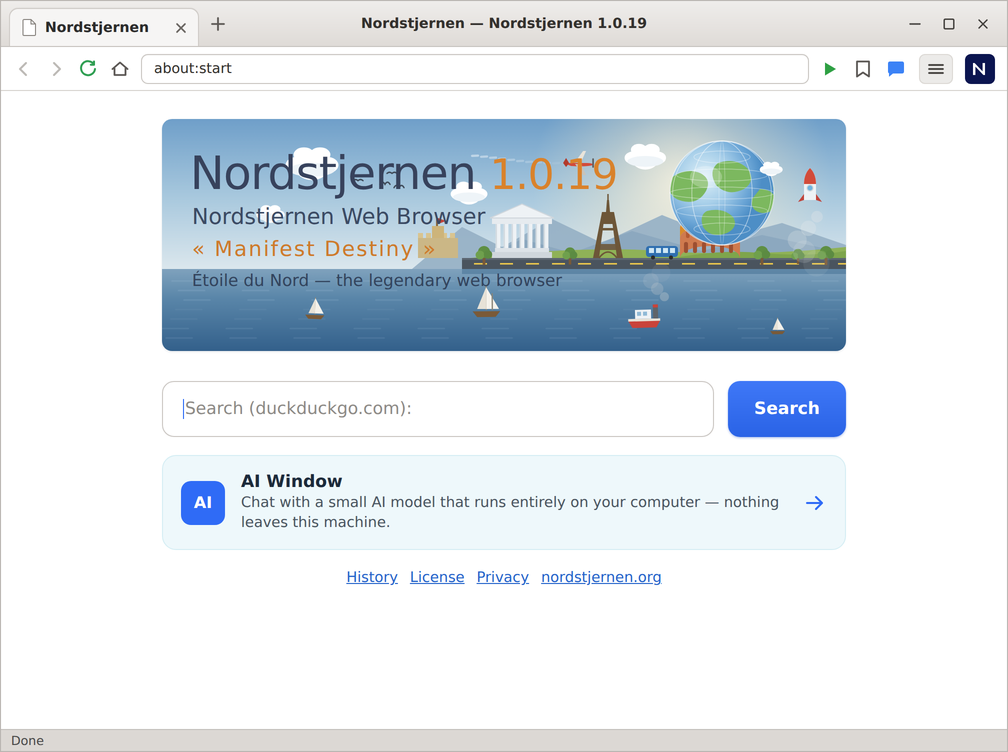
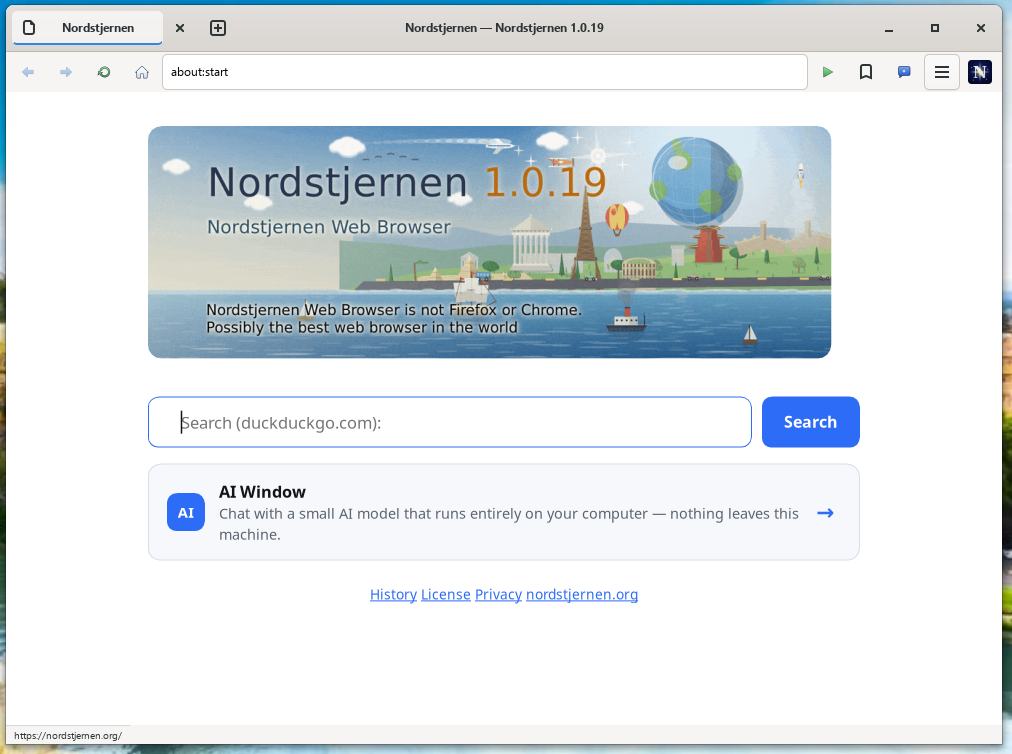
Update site for Nordstjernen 1.0.19 release
- Bump version 1.0.18 -> 1.0.19 in index.html and download.html
  (JSON-LD softwareVersion/downloadUrl, release banner, download
  section, release dates)
- Add release-1-0-19.html announcing the release, based on the
  1.0.18 page: Web Platform Tests conformance (88.4% overall,
  91.7% HTML), a new animated about:start splash, a fresh iOS port,
  Chrome-identity site compatibility, and grayscale text rendering
- Replace screenshots/screenshot.png with the 1.0.19 about:start
  panorama (1012x754) from the app repo's docs/screenshot.png
- Refresh screenshot dimensions and captions in index.html and
  screenshots.html (retire the old "Manifest Destiny" splash name)
- Add a 1.0.19 news entry and a WPT conformance highlight to index.html

Claude-Session: https://claude.ai/code/session_019Tk9YRZpjw4Xjymx6icwFh

Changed region(s): [[0.123, 0.1529, 0.8611, 0.734], [0.0, 0.0, 1.0, 1.0], [0.3383, 0.7646, 0.6458, 0.8258]]

diff --git a/release-1-0-19.html b/release-1-0-19.html
@@ -1,0 +1,286 @@
+<!DOCTYPE html>
+<html lang="en">
+<head>
+<meta charset="utf-8">
+<meta name="viewport" content="width=device-width, initial-scale=1">
+<title>Nordstjernen Browser 1.0.19 released!</title>
+<meta name="description" content="Nordstjernen Browser 1.0.19 released - major web-standards conformance gains, a new animated about:start splash, and a fresh iOS port. An independent web browser written from scratch in C. No telemetry, no JIT.">
+<link rel="icon" type="image/svg+xml" href="assets/nordstjernen.svg">
+<link rel="stylesheet" href="assets/style.css">
+</head>
+<body>
+
+<div class="frame">
+
+  <div class="header">
+    <a class="bestviewed" href="https://github.com/nordstjernen-web/nordstjernen">
+      <img src="assets/best-viewed-in-nordstjernen.png" width="144" height="50" alt="Best viewed in Nordstjernen">
+    </a>
+    <div class="brand">
+      <a href="."><img class="logo" src="assets/nordstjernen.svg" alt="*"></a>
+      <span class="title"><a href=".">nordstjernen.org</a></span>
+    </div>
+    <div class="tag">small, steady, independent &middot; written from scratch in C &middot; no JIT, no telemetry</div>
+  </div>
+
+  <nav class="nav" aria-label="Primary">
+    <a href="index.html#about">About</a>
+    <a href="index.html#news">News</a>
+    <a href="screenshots.html">Screenshots</a>
+    <a href="download.html">Download</a>
+    <a href="https://github.com/nordstjernen-web/nordstjernen">GitHub</a>
+    <input type="checkbox" id="nav-more" class="nav-more-toggle">
+    <label class="nav-more-btn" for="nav-more">More <span aria-hidden="true">&#9662;</span></label>
+    <div class="nav-sec">
+      <a href="index.html#specs">Specifications</a>
+      <a href="https://github.com/nordstjernen-web/nordstjernen/releases">Releases</a>
+      <a href="https://discord.gg/4W959nW5vF">Discord</a>
+    </div>
+  </nav>
+
+  <div class="content">
+
+        <a id="about"></a>
+        <h1>Nordstjernen Browser 1.0.19 released!</h1>
+        <p>Today, 17 July 2026, we are pleased to announce the release of <b>Nordstjernen 1.0.19</b>. This is a big one: a major push on web-standards conformance, a redesigned animated <code>about:start</code> splash, a fresh iOS port, and compatibility work that gets real-world sites much closer to loading. Nordstjernen is a web browser, written from scratch in C, focused on supporting the HTML and CSS standards. It runs on Windows, macOS and Linux, with builds for Android, iOS, FreeBSD, NetBSD and the JVM. Nordstjernen is built in Norway.</p>
+
+        <p>Nordstjernen Browser version 1.0.19 is available now! <a href="https://github.com/nordstjernen-web/nordstjernen/releases/tag/1.0.19">Read the full release notes here</a>, or <a href="#download">jump straight to the downloads</a>.</p>
+
+        <p>&laquo; <a href="index.html">Back to nordstjernen.org</a></p>
+
+        <div class="shot">
+          <a href="screenshots/screenshot.png"><img src="screenshots/screenshot.png" width="1012" height="754" alt="Nordstjernen's about:start start page — an animated civilization panorama, with on-device search and a local AI window"></a>
+          <div class="cap">Nordstjernen&rsquo;s new <code>about:start</code> page &mdash; the animated splash panorama. <a href="screenshots.html">more screenshots &raquo;</a></div>
+        </div>
+
+        <h2>what&rsquo;s new in 1.0.19</h2>
+        <ul class="news">
+          <li><b>A big step in web-standards conformance.</b> Nordstjernen now runs the full <a href="https://github.com/web-platform-tests/wpt">Web Platform Tests</a> (wpt-fast) tree headless &mdash; <b>88.4% of subtests pass overall</b> (169,973 of 192,222), with the HTML suite at 91.7%, CSS at 63.4% and JavaScript at 59.5%. Hundreds of layout, CSS, DOM, events and HTML-reflection fixes landed this cycle, and QuickJS now runs the test262 ECMAScript conformance suite with an empty known-failure list.</li>
+          <li><b>Getting real sites to load.</b> Nordstjernen now presents a coherent modern Chrome desktop identity &mdash; a matching User-Agent, <code>Sec-CH-UA</code> client hints, <code>navigator.plugins</code>/<code>mimeTypes</code>, <code>window.chrome</code> and Chrome/ANGLE WebGL renderer strings &mdash; so sites that sniff the browser serve it the right code. A new <code>compat_mode</code> setting switches between Chrome, Firefox and Ladybird identities. List of websites almost working, but not quite: Google, Bing, YouTube, duck.ai, CNN, BBC.</li>
+          <li><b>A new <code>about:start</code>.</b> The start-page splash is redesigned as an animated &ldquo;civilization panorama&rdquo; &mdash; a Greco-Roman skyline of world monuments under drifting clouds over a calm sea &mdash; replacing the old codename splash. The on-device search box and local-AI window carry over unchanged.</li>
+          <li><b>A fresh iOS port.</b> A new UIKit host app and iOS engine cross-compile now build end-to-end in CI (device and simulator), joining Windows, macOS, Linux, Android, the JVM, FreeBSD and NetBSD.</li>
+          <li><b>Sharper text.</b> Text now renders with grayscale antialiasing instead of LCD subpixel, for cleaner glyphs across displays.</li>
+          <li><b>Shadow DOM and more.</b> <code>getHTML()</code>, <code>setHTMLUnsafe()</code> and declarative shadow roots; real cross-frame and cross-thread <code>postMessage</code>; CSS transforms reflected in <code>getBoundingClientRect()</code> and hit-testing; real box-shadow blur; CSS-table cells and grid placement fixes; and much more.</li>
+        </ul>
+
+        <p><b>HTML Standard.</b> Behaviour is measured against the spec text, section by section, not against another browser &mdash; 140 spec rows fully implemented, 31 partial, 0 absent across WHATWG HTML sections 1&ndash;16 as of July 2026. See the standards table below and <a href="https://github.com/nordstjernen-web/nordstjernen/blob/main/docs/HTML-compatibility.md">docs/HTML-compatibility.md</a>.</p>
+        <p><b>Secure.</b> Process-per-tab design &mdash; each tab's engine runs in its own sandboxed process (seccomp + Landlock on Linux), talking to the UI over IPC and shared-memory framebuffers &middot; no JIT.</p>
+        <p><b>Minimalism.</b> The whole engine is about 145,000 lines of clean-room C (plus a thin GTK 4 shell), excluding the vendored libraries &mdash; small enough for one person to read and audit end-to-end.</p>
+        <p><b>Local AI.</b> The <code>about:start</code> new-tab page is a chat with a small language model running entirely on your machine via <a href="https://github.com/ggml-org/llama.cpp">llama.cpp</a> &mdash; no cloud, no network at inference time. Build with <code>-Dai=disabled</code> for a fully offline binary.</p>
+        <p>Nordstjernen has no JIT so it is much more secure, and can still be fast enough. It ships no telemetry of any kind.</p>
+
+        <a id="news"></a>
+        <h2>news</h2>
+        <p><span class="date">17&nbsp;JUL&nbsp;2026</span> &middot;
+        Nordstjernen <b>1.0.19</b> released &mdash; web-standards conformance, a new animated splash, and an iOS port.
+        <a href="https://github.com/nordstjernen-web/nordstjernen/releases/tag/1.0.19">Release notes &raquo;</a></p>
+
+        <p><span class="date">6&nbsp;JUL&nbsp;2026</span> &middot;
+        Nordstjernen <b>1.0.18</b> released &mdash; a maintenance release.
+        <a href="release-1-0-18.html">Announcement &raquo;</a> &middot;
+        <a href="https://github.com/nordstjernen-web/nordstjernen/releases/tag/1.0.18">Release notes &raquo;</a></p>
+
+        <p><span class="date">30&nbsp;JUN&nbsp;2026</span> &middot;
+        Nordstjernen <b>1.0.17</b> released &mdash; a maintenance release.
+        <a href="release-1-0-17.html">Announcement &raquo;</a> &middot;
+        <a href="https://github.com/nordstjernen-web/nordstjernen/releases/tag/1.0.17">Release notes &raquo;</a></p>
+
+        <p><span class="date">27&nbsp;JUN&nbsp;2026</span> &middot;
+        Nordstjernen <b>1.0.16</b> released &mdash; a maintenance release.
+        <a href="release-1-0-16.html">Announcement &raquo;</a> &middot;
+        <a href="https://github.com/nordstjernen-web/nordstjernen/releases/tag/1.0.16">Release notes &raquo;</a></p>
+
+        <p><span class="date">25&nbsp;JUN&nbsp;2026</span> &middot;
+        Nordstjernen <b>1.0.15</b> released &mdash; a maintenance release.
+        <a href="release-1-0-15.html">Announcement &raquo;</a> &middot;
+        <a href="https://github.com/nordstjernen-web/nordstjernen/releases/tag/1.0.15">Release notes &raquo;</a></p>
+
+        <p><span class="date">23&nbsp;JUN&nbsp;2026</span> &middot;
+        Nordstjernen <b>1.0.14</b> released &mdash; a maintenance release.
+        <a href="release-1-0-14.html">Announcement &raquo;</a> &middot;
+        <a href="https://github.com/nordstjernen-web/nordstjernen/releases/tag/1.0.14">Release notes &raquo;</a></p>
+
+        <p><span class="date">21&nbsp;JUN&nbsp;2026</span> &middot;
+        Nordstjernen <b>1.0.12</b> released &mdash; a maintenance release.
+        <a href="https://github.com/nordstjernen-web/nordstjernen/releases/tag/1.0.12">Release notes &raquo;</a></p>
+
+        <p><span class="date">19&nbsp;JUN&nbsp;2026</span> &middot;
+        Nordstjernen <b>1.0.11</b> released &mdash; a maintenance release.
+        <a href="release-1-0-11.html">Announcement &raquo;</a> &middot;
+        <a href="https://github.com/nordstjernen-web/nordstjernen/releases/tag/1.0.11">Release notes &raquo;</a></p>
+
+        <p><span class="date">18&nbsp;JUN&nbsp;2026</span> &middot;
+        Nordstjernen <b>1.0.10</b> released &mdash; a maintenance release.
+        <a href="release-1-0-10.html">Announcement &raquo;</a> &middot;
+        <a href="https://github.com/nordstjernen-web/nordstjernen/releases/tag/1.0.10">Release notes &raquo;</a></p>
+
+        <p><span class="date">17&nbsp;JUN&nbsp;2026</span> &middot;
+        Nordstjernen <b>1.0.9</b> released &mdash; a maintenance release.
+        <a href="release-1-0-9.html">Announcement &raquo;</a> &middot;
+        <a href="https://github.com/nordstjernen-web/nordstjernen/releases/tag/1.0.9">Release notes &raquo;</a></p>
+
+        <p><span class="date">15&nbsp;JUN&nbsp;2026</span> &middot;
+        Nordstjernen <b>1.0.8</b> released &mdash; a maintenance release.
+        <a href="release-1-0-8.html">Announcement &raquo;</a> &middot;
+        <a href="https://github.com/nordstjernen-web/nordstjernen/releases/tag/1.0.8">Release notes &raquo;</a></p>
+
+        <p><span class="date">14&nbsp;JUN&nbsp;2026</span> &middot;
+        Nordstjernen <b>1.0.7</b> released &mdash; a maintenance release.
+        <a href="release-1-0-7.html">Announcement &raquo;</a> &middot;
+        <a href="https://github.com/nordstjernen-web/nordstjernen/releases/tag/1.0.7">Release notes &raquo;</a></p>
+
+        <p><span class="date">14&nbsp;JUN&nbsp;2026</span> &middot;
+        Nordstjernen <b>1.0.6</b> released &mdash; a maintenance release.
+        <a href="release-1-0-6.html">Announcement &raquo;</a> &middot;
+        <a href="https://github.com/nordstjernen-web/nordstjernen/releases/tag/1.0.6">Release notes &raquo;</a></p>
+
+        <p><span class="date">13&nbsp;JUN&nbsp;2026</span> &middot;
+        Nordstjernen <b>1.0.5</b> released &mdash; a maintenance release.
+        <a href="release-1-0-5.html">Announcement &raquo;</a> &middot;
+        <a href="https://github.com/nordstjernen-web/nordstjernen/releases/tag/1.0.5">Release notes &raquo;</a></p>
+
+        <p><span class="date">13&nbsp;JUN&nbsp;2026</span> &middot;
+        Nordstjernen <b>1.0.4</b> released &mdash; a maintenance release.
+        <a href="release-1-0-4.html">Announcement &raquo;</a> &middot;
+        <a href="https://github.com/nordstjernen-web/nordstjernen/releases/tag/1.0.4">Release notes &raquo;</a></p>
+
+        <p><span class="date">10&nbsp;JUN&nbsp;2026</span> &middot;
+        Nordstjernen <b>1.0.3</b> released &mdash; faster page loads and a UI translated into 40 languages.
+        <a href="release-1-0-3.html">Announcement &raquo;</a> &middot;
+        <a href="https://github.com/nordstjernen-web/nordstjernen/releases/tag/1.0.3">Release notes &raquo;</a></p>
+
+        <p><span class="date">9&nbsp;JUN&nbsp;2026</span> &middot;
+        Nordstjernen <b>1.0.2</b> released &mdash; a maintenance release.
+        <a href="release-1-0-2.html">Announcement &raquo;</a> &middot;
+        <a href="https://github.com/nordstjernen-web/nordstjernen/releases/tag/1.0.2">Release notes &raquo;</a></p>
+
+        <p><span class="date">7&nbsp;JUN&nbsp;2026</span> &middot;
+        Nordstjernen <b>1.0.1</b> released &mdash; a maintenance release.
+        <a href="release-1-0-1.html">Announcement &raquo;</a> &middot;
+        <a href="https://github.com/nordstjernen-web/nordstjernen/releases/tag/1.0.1">Release notes &raquo;</a></p>
+
+        <p><span class="date">5&nbsp;JUN&nbsp;2026</span> &middot;
+        Nordstjernen <b>1.0.0</b> released &mdash; the first stable release.
+        <a href="release-1-0-0.html">Announcement &raquo;</a> &middot;
+        <a href="https://github.com/nordstjernen-web/nordstjernen/releases/tag/1.0.0">Release notes &raquo;</a></p>
+
+        <p><span class="date">31&nbsp;MAY&nbsp;2026</span> &middot;
+        Nordstjernen <b>0.8.1</b> released.
+        <a href="https://github.com/nordstjernen-web/nordstjernen/releases/tag/0.8.1">Release notes &raquo;</a></p>
+
+        <p><span class="date">28&nbsp;MAY&nbsp;2026</span> &middot;
+        Nordstjernen <b>0.8.0</b> released.
+        <a href="https://github.com/nordstjernen-web/nordstjernen/releases/tag/0.8.0">Release notes &raquo;</a></p>
+
+        <p><span class="date">24&nbsp;MAY&nbsp;2026</span> &middot;
+        Nordstjernen <b>0.7.0</b> released.
+        <a href="https://github.com/nordstjernen-web/nordstjernen/releases/tag/0.7.0">Release notes &raquo;</a></p>
+
+        <a id="specs"></a>
+        <h2>specifications</h2>
+        <table class="spec">
+          <tr><th>language</th><td>C &middot; ~145 kLOC clean-room &middot; GTK&nbsp;4 shell &middot; Java/JVM binding via JNI &middot; fully auditable</td></tr>
+          <tr><th>html / css</th><td><a href="https://github.com/lexbor/lexbor">lexbor</a> (parser, WHATWG URL, selectors)</td></tr>
+          <tr><th>javascript</th><td><a href="https://github.com/quickjs-ng/quickjs">quickjs-ng</a> &mdash; bytecode interpreter, no JIT</td></tr>
+          <tr><th>webassembly</th><td><a href="https://github.com/bytecodealliance/wasm-micro-runtime">WAMR</a> &mdash; interpreter behind the <code>WebAssembly</code> JS API</td></tr>
+          <tr><th>images</th><td><a href="https://github.com/google/wuffs">Wuffs</a> v0.4 (PNG / GIF / BMP / JPEG) &middot; libwebp (WebP) &middot; libavif (AVIF, optional)</td></tr>
+          <tr><th>media</th><td>inline <code>&lt;video&gt;</code> &mdash; MPEG-1 via <a href="https://github.com/phoboslab/pl_mpeg">pl_mpeg</a> &middot; WebM (VP9/VP8 + Opus/Vorbis) via optional FFmpeg &middot; WebVTT captions &middot; SDL2 audio</td></tr>
+          <tr><th>ai</th><td><a href="https://github.com/ggml-org/llama.cpp">llama.cpp</a> &mdash; on-device <code>about:start</code> chat &middot; no cloud &middot; optional GPU offload (Vulkan / Metal) &middot; <code>-Dai=disabled</code> for offline builds</td></tr>
+          <tr><th>ui</th><td><a href="https://www.gtk.org">GTK 4</a> (&ge;&nbsp;4.22.1 on Windows, &ge;&nbsp;4.14 elsewhere) &middot; Pango text shaping</td></tr>
+          <tr><th>network</th><td><a href="https://curl.se">libcurl</a> &ge;&nbsp;8.5 &middot; HTTP/2</td></tr>
+          <tr><th>hardening</th><td>process-per-tab &middot; seccomp + Landlock sandbox on Linux &middot; sandboxed renderer processes &middot; no JIT</td></tr>
+          <tr><th>privacy</th><td>no telemetry &middot; partitioned cookies &middot; HSTS &middot; CSP &middot; SRI &middot; on-device safe browsing</td></tr>
+          <tr><th>standards</th><td>140 spec rows fully implemented, 31 partial, 0 absent &middot; WHATWG HTML sections 1&ndash;16 &middot; Web Platform Tests: 88.4% of subtests overall, 91.7% HTML (July 2026)</td></tr>
+          <tr><th>platforms</th><td>windows &middot; macos &middot; linux &middot; android &middot; ios &middot; java/jvm &middot; freebsd &middot; netbsd</td></tr>
+          <tr><th>license</th><td><a href="https://github.com/nordstjernen-web/nordstjernen/blob/main/License.md">NSL-1.0</a> &rarr; MIT after 10 years</td></tr>
+        </table>
+
+        <a id="download"></a>
+        <h2>download</h2>
+        <p>Latest tagged release: Nordstjernen <b>1.0.19</b> &mdash; released 17 July 2026.
+        <a href="https://github.com/nordstjernen-web/nordstjernen/releases/tag/1.0.19">full release notes &raquo;</a></p>
+
+        <p>Nordstjernen is also available on the
+        <a href="https://apps.microsoft.com/detail/9nw8t7w5z4pl">Microsoft Store</a>.</p>
+
+        <p><b>For platform-specific builds, use the nightly builds.</b> They are rebuilt
+        from <code>main</code> each night and point at the latest code &mdash; bleeding
+        edge, expect rough edges.</p>
+
+        <table class="spec dl">
+          <tr>
+            <th>Windows</th>
+            <td><a href="https://www.nordstjernen.org/nightly/nordstjernen-windows-x86_64.zip">nordstjernen-windows-x86_64.zip</a> &middot;
+                <a href="https://apps.microsoft.com/detail/9nw8t7w5z4pl">Microsoft Store</a></td>
+          </tr>
+          <tr>
+            <th>macOS</th>
+            <td><a href="https://www.nordstjernen.org/nightly/nordstjernen-macos.dmg">nordstjernen-macos.dmg</a></td>
+          </tr>
+          <tr>
+            <th>Debian</th>
+            <td><a href="https://www.nordstjernen.org/nightly/nordstjernen-debian-amd64.deb">nordstjernen-debian-amd64.deb</a></td>
+          </tr>
+          <tr>
+            <th>Ubuntu</th>
+            <td><a href="https://www.nordstjernen.org/nightly/nordstjernen-ubuntu-amd64.deb">nordstjernen-ubuntu-amd64.deb</a></td>
+          </tr>
+          <tr>
+            <th>openSUSE</th>
+            <td><a href="https://www.nordstjernen.org/nightly/nordstjernen-opensuse-x86_64.rpm">nordstjernen-opensuse-x86_64.rpm</a></td>
+          </tr>
+          <tr>
+            <th>Linux (portable)</th>
+            <td><a href="https://www.nordstjernen.org/nightly/nordstjernen-linux-x86_64.zip">nordstjernen-linux-x86_64.zip</a></td>
+          </tr>
+          <tr>
+            <th>Alpine (musl)</th>
+            <td><a href="https://www.nordstjernen.org/nightly/nordstjernen-alpine-x86_64.apk">nordstjernen-alpine-x86_64.apk</a> &middot;
+                <a href="https://www.nordstjernen.org/nightly/nordstjernen-alpine-x86_64.zip">.zip</a></td>
+          </tr>
+          <tr>
+            <th>Java API (JDK 21)</th>
+            <td><a href="https://www.nordstjernen.org/nightly/nordstjernen-java.jar">nordstjernen-java.jar</a> &middot;
+                <a href="https://www.nordstjernen.org/nightly/nordstjernen-java-sources.jar">sources</a> &middot;
+                <a href="https://www.nordstjernen.org/nightly/nordstjernen-java-javadoc.jar">javadoc</a> &middot;
+                <a href="https://www.nordstjernen.org/nightly/java/apidocs/">API docs</a></td>
+          </tr>
+          <tr>
+            <th>Source</th>
+            <td><a href="https://www.nordstjernen.org/nightly/nordstjernen-src.tar.xz">nordstjernen-src.tar.xz</a></td>
+          </tr>
+          <tr>
+            <th>Checksums</th>
+            <td><a href="https://www.nordstjernen.org/nightly/SHA256SUMS">SHA256SUMS</a> &middot;
+                <a href="https://www.nordstjernen.org/nightly/">all nightly files</a></td>
+          </tr>
+        </table>
+
+  </div>
+
+  <div class="footer">
+    <div class="counter"><img src="counter.php" alt="visitor count"></div>
+    Copyright &copy; 2026 the Nordstjernen project &middot;
+    <a href="https://github.com/nordstjernen-web/nordstjernen/blob/main/License.md">NSL-1.0</a> &middot;
+    <a href="https://discord.gg/4W959nW5vF">Discord</a> &middot;
+    <a href="mailto:andreas.rosdal@hotmail.com">andreas.rosdal@hotmail.com</a>
+  </div>
+
+</div>
+
+<script type="text/javascript">
+document.addEventListener('DOMContentLoaded', function () {
+  document.querySelectorAll('a').forEach(function (link) {
+    link.addEventListener('mouseenter', function () {
+      window.status = link.getAttribute('href') || '';
+    });
+    link.addEventListener('mouseleave', function () {
+      window.status = 'nordstjernen.org';
+    });
+  });
+  window.status = 'nordstjernen.org';
+});
+</script>
+
+</body>
+</html>

diff --git a/index.html b/index.html
@@ -24,9 +24,9 @@
   "name": "Nordstjernen",
   "applicationCategory": "BrowserApplication",
   "operatingSystem": "Windows, macOS, Linux, Android, iOS",
-  "softwareVersion": "1.0.18",
+  "softwareVersion": "1.0.19",
   "url": "https://www.nordstjernen.org/",
-  "downloadUrl": "https://github.com/nordstjernen-web/nordstjernen/releases/tag/1.0.18",
+  "downloadUrl": "https://github.com/nordstjernen-web/nordstjernen/releases/tag/1.0.19",
   "license": "https://github.com/nordstjernen-web/nordstjernen/blob/main/License.md",
   "offers": { "@type": "Offer", "price": "0", "priceCurrency": "USD" }
 }
@@ -70,15 +70,15 @@
         <h1 id="about" style="color:#003366;">Nordstjernen Web Browser</h1>
         <p class="lead">Nordstjernen is a web browser, written from scratch in C, focused on supporting the HTML and CSS standards. It runs on Windows, macOS and Linux, with builds for Android, iOS, FreeBSD, NetBSD and the JVM. Nordstjernen is built in Norway.</p>
 
-        <p class="release-line">Nordstjernen Browser version 1.0.18 released! <a href="release-1-0-18.html">Read the announcement</a> &middot; <a href="https://github.com/nordstjernen-web/nordstjernen/releases/tag/1.0.18">More info here</a>.</p>
+        <p class="release-line">Nordstjernen Browser version 1.0.19 released! <a href="release-1-0-19.html">Read the announcement</a> &middot; <a href="https://github.com/nordstjernen-web/nordstjernen/releases/tag/1.0.19">More info here</a>.</p>
 
         <figure class="shot">
-          <a href="screenshots/screenshot.png"><img src="screenshots/screenshot.png" width="1008" height="752" loading="lazy" alt="Nordstjernen's about:start start page — the Manifest Destiny splash, with on-device search and a local AI window"></a>
-          <figcaption class="cap">Nordstjernen&rsquo;s about:start page &mdash; the &ldquo;Manifest Destiny&rdquo; splash. <a href="screenshots.html">more screenshots &raquo;</a></figcaption>
+          <a href="screenshots/screenshot.png"><img src="screenshots/screenshot.png" width="1012" height="754" loading="lazy" alt="Nordstjernen's about:start start page — an animated civilization panorama, with on-device search and a local AI window"></a>
+          <figcaption class="cap">Nordstjernen&rsquo;s about:start page &mdash; the animated splash panorama. <a href="screenshots.html">more screenshots &raquo;</a></figcaption>
         </figure>
 
         <div class="features">
-        <p class="feature"><b>HTML Standard.</b> Behaviour is measured against the spec text, section by section, not against another browser &mdash; 140 spec rows fully implemented, 31 partial and 0 absent across WHATWG HTML sections 1&ndash;16 (July 2026). No element or API row is fully absent any more: every one is implemented, partial, or a deliberate non-goal. See <a href="https://github.com/nordstjernen-web/nordstjernen/blob/main/docs/HTML-compatibility.md">docs/HTML-compatibility.md</a>.</p>
+        <p class="feature"><b>HTML Standard.</b> Behaviour is measured against the spec text, section by section, not against another browser &mdash; 140 spec rows fully implemented, 31 partial and 0 absent across WHATWG HTML sections 1&ndash;16 (July 2026). No element or API row is fully absent any more: every one is implemented, partial, or a deliberate non-goal. Against the <a href="https://github.com/web-platform-tests/wpt">Web Platform Tests</a>, the full wpt-fast tree now passes <b>88.4% of subtests overall</b> &mdash; 91.7% of the HTML suite &mdash; and QuickJS runs the test262 conformance suite clean. See <a href="https://github.com/nordstjernen-web/nordstjernen/blob/main/docs/HTML-compatibility.md">docs/HTML-compatibility.md</a>.</p>
         <p class="feature"><b>Secure.</b> Process-per-tab design &mdash; each tab runs in its own sandboxed renderer process (seccomp + Landlock on Linux), talking to the UI over IPC and shared-memory framebuffers &middot; no JIT.</p>
         <p class="feature"><b>Minimalism.</b> The whole engine is about 145,000 lines of clean-room C, excluding the vendored libraries &mdash; small enough for one person to read and audit end-to-end.</p>
         <p class="feature"><b>Capable.</b> JavaScript on QuickJS with Canvas&nbsp;2D, WebCrypto, Service Workers and the Navigation API &middot; WebAssembly via WAMR &middot; opt-in per-site WebGL &middot; inline <code>&lt;video&gt;</code> (MPEG-1 always, WebM/VP9 where FFmpeg is present) with WebVTT captions &middot; presentation MathML &middot; on-device safe browsing against a local blocklist.</p>
@@ -89,6 +89,11 @@
 
         <h2 id="news">news</h2>
         <ul class="news">
+        <li><time class="date" datetime="2026-07-17">17&nbsp;JUL&nbsp;2026</time> &middot;
+        Nordstjernen <b>1.0.19</b> released &mdash; a big step in web-standards conformance, a new animated about:start splash, and a fresh iOS port.
+        <a href="release-1-0-19.html">Announcement &raquo;</a> &middot;
+        <a href="https://github.com/nordstjernen-web/nordstjernen/releases/tag/1.0.19">Release notes &raquo;</a></li>
+
         <li><time class="date" datetime="2026-07-06">6&nbsp;JUL&nbsp;2026</time> &middot;
         Nordstjernen <b>1.0.18</b> released &mdash; a maintenance release.
         <a href="release-1-0-18.html">Announcement &raquo;</a> &middot;
@@ -143,13 +148,13 @@
           <tr><th scope="row">network</th><td><a href="https://curl.se">libcurl</a> &ge;&nbsp;8.5 &middot; HTTP/2</td></tr>
           <tr><th scope="row">hardening</th><td>process-per-tab &middot; seccomp + Landlock sandbox on Linux &middot; sandboxed renderer processes &middot; no JIT</td></tr>
           <tr><th scope="row">privacy</th><td>no telemetry &middot; partitioned cookies &middot; HSTS &middot; CSP &middot; SRI &middot; on-device safe browsing</td></tr>
-          <tr><th scope="row">standards</th><td>140 spec rows fully implemented, 31 partial, 0 absent &middot; WHATWG HTML sections 1&ndash;16 (July 2026)</td></tr>
+          <tr><th scope="row">standards</th><td>140 spec rows fully implemented, 31 partial, 0 absent &middot; WHATWG HTML sections 1&ndash;16 &middot; Web Platform Tests: 88.4% of subtests overall, 91.7% HTML (July 2026)</td></tr>
           <tr><th scope="row">platforms</th><td>linux (gtk) &middot; windows &middot; macos &middot; android &middot; ios &middot; java/jvm &middot; freebsd &middot; netbsd</td></tr>
           <tr><th scope="row">license</th><td><a href="https://github.com/nordstjernen-web/nordstjernen/blob/main/License.md">NSL-1.0</a> &rarr; MIT after 10 years &middot; The Nordstjernen Source License is inspired by the <a href="https://fsl.software/">Functional Source License (FSL)</a>, a Fair Source license that converts to Apache 2.0 or MIT.</td></tr>
         </table>
 
         <h2 id="download">download</h2>
-        <p>Latest tagged release: Nordstjernen <b>1.0.18</b> &mdash; released 6 July 2026.
+        <p>Latest tagged release: Nordstjernen <b>1.0.19</b> &mdash; released 17 July 2026.
         Builds for Windows, macOS and Linux, plus the source, are all on the download page.
         Android is available on <a href="https://play.google.com/store/apps/details?id=org.nordstjernen.WebBrowser">Google Play</a>.</p>
 

diff --git a/download.html b/download.html
@@ -24,9 +24,9 @@
   "name": "Nordstjernen",
   "applicationCategory": "BrowserApplication",
   "operatingSystem": "Windows, macOS, Linux",
-  "softwareVersion": "1.0.18",
+  "softwareVersion": "1.0.19",
   "url": "https://www.nordstjernen.org/download.html",
-  "downloadUrl": "https://github.com/nordstjernen-web/nordstjernen/releases/tag/1.0.18",
+  "downloadUrl": "https://github.com/nordstjernen-web/nordstjernen/releases/tag/1.0.19",
   "license": "https://github.com/nordstjernen-web/nordstjernen/blob/main/License.md",
   "offers": { "@type": "Offer", "price": "0", "priceCurrency": "USD" }
 }
@@ -70,13 +70,13 @@
         <h1 id="download">download</h1>
 
         <div class="os-hero">
-          <a id="os-download" class="btn-red" href="https://github.com/nordstjernen-web/nordstjernen/releases/tag/1.0.18">Download Nordstjernen</a>
-          <p class="os-note">Nordstjernen 1.0.18 &middot; free &amp; open source &middot; no telemetry. <a href="#downloads">All platforms below &raquo;</a></p>
+          <a id="os-download" class="btn-red" href="https://github.com/nordstjernen-web/nordstjernen/releases/tag/1.0.19">Download Nordstjernen</a>
+          <p class="os-note">Nordstjernen 1.0.19 &middot; free &amp; open source &middot; no telemetry. <a href="#downloads">All platforms below &raquo;</a></p>
         </div>
 
         <h2 id="downloads">all downloads</h2>
-        <p>Latest tagged release: Nordstjernen <b>1.0.18</b> &mdash; released 6 July 2026.
-        <a href="https://github.com/nordstjernen-web/nordstjernen/releases/tag/1.0.18">full release notes &raquo;</a></p>
+        <p>Latest tagged release: Nordstjernen <b>1.0.19</b> &mdash; released 17 July 2026.
+        <a href="https://github.com/nordstjernen-web/nordstjernen/releases/tag/1.0.19">full release notes &raquo;</a></p>
 
         <p>Nordstjernen is also available on the
         <a href="https://apps.microsoft.com/detail/9nw8t7w5z4pl">Microsoft Store</a>

diff --git a/screenshots.html b/screenshots.html
@@ -58,8 +58,8 @@
     no WebKit, no Gecko. Click the image to view it full size.</p>
 
     <figure class="shot">
-      <a href="screenshots/screenshot.png"><img src="screenshots/screenshot.png" width="1008" height="752" loading="lazy" alt="Nordstjernen's about:start start page — the Manifest Destiny splash, with on-device search and a local AI window"></a>
-      <figcaption class="cap">Nordstjernen&rsquo;s about:start page &mdash; the &ldquo;Manifest Destiny&rdquo; splash.</figcaption>
+      <a href="screenshots/screenshot.png"><img src="screenshots/screenshot.png" width="1012" height="754" loading="lazy" alt="Nordstjernen's about:start start page — an animated civilization panorama, with on-device search and a local AI window"></a>
+      <figcaption class="cap">Nordstjernen&rsquo;s about:start page &mdash; the animated splash panorama.</figcaption>
     </figure>
 
     <p><a href="index.html">&laquo; back to home</a></p>
